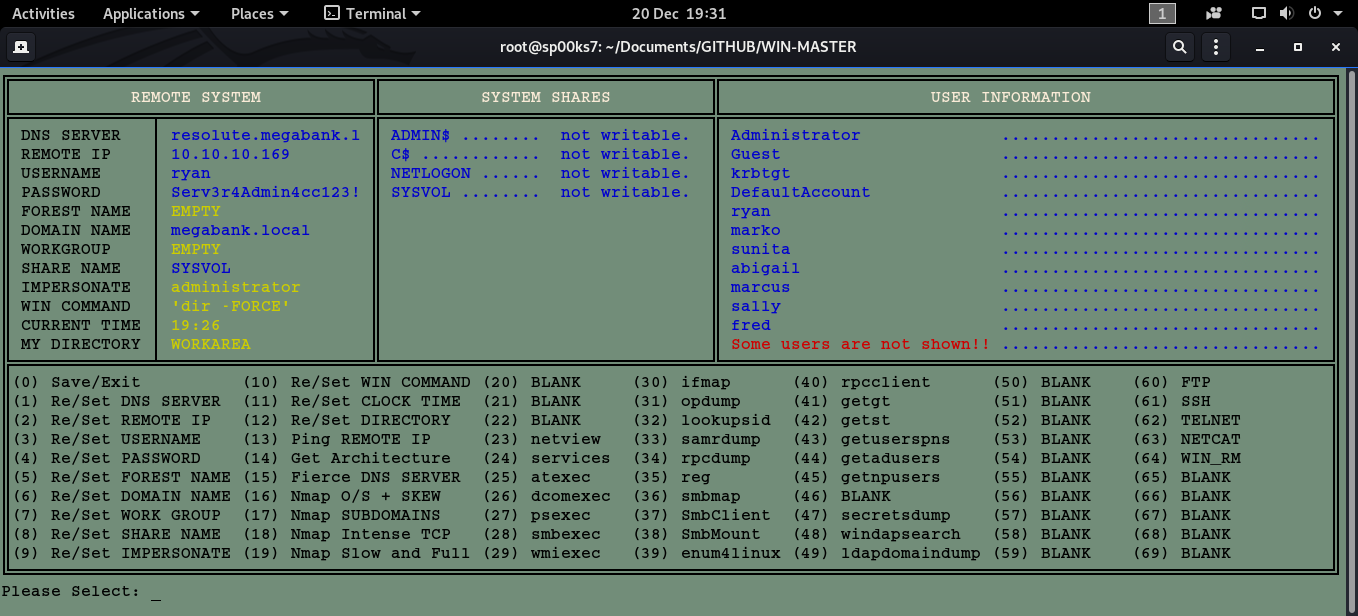
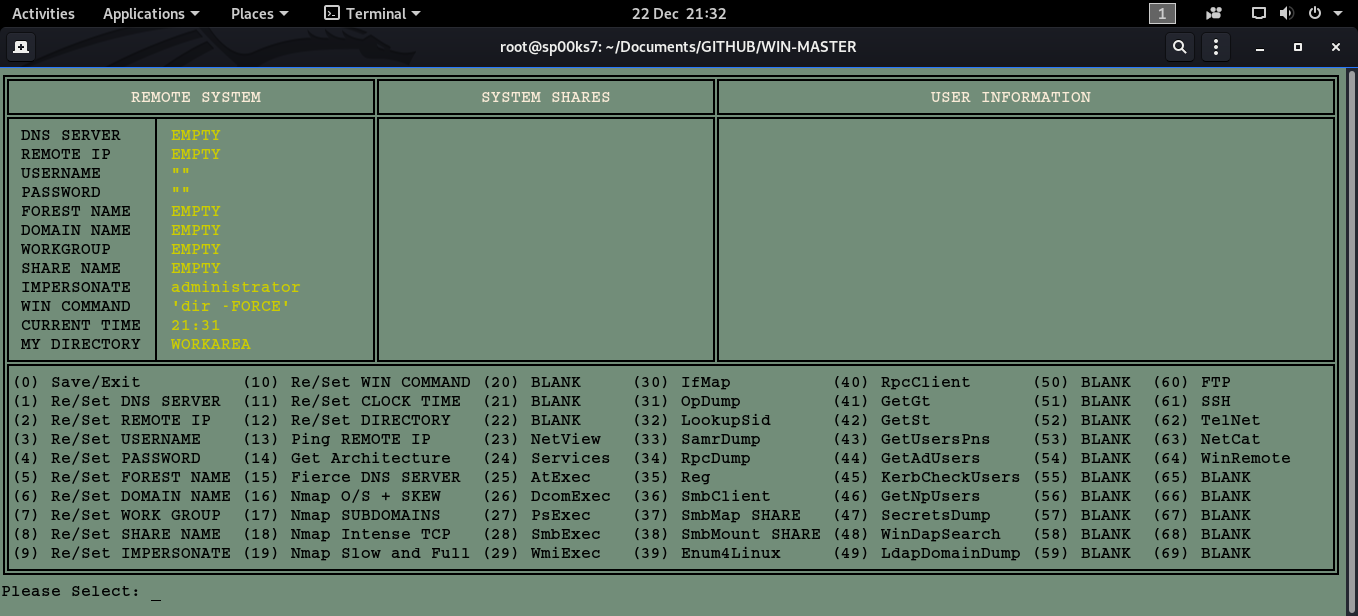
UPDATED

diff --git a/WinMaster.py b/WinMaster.py
@@ -79,10 +79,10 @@ def gettime(value):
    return variable
 
 def command(command):
-      print "Using Command: " + CMD #DEBUG 
-      os.system(command)
-      raw_input("\nPress ENTER to continue...")
-      return
+   print "Using Command: " + CMD #DEBUG 
+   os.system(command)
+   raw_input("\nPress ENTER to continue...")
+   return
 
 def display():
    print u'\u2554' + (u'\u2550')*36 + u'\u2566' + (u'\u2550')*33 + u'\u2566' + (u'\u2550')*61 + u'\u2557'
@@ -254,16 +254,16 @@ def display():
 
 # ----------------------------------------------------------------------------------------------------------------------------------------------------
 
-   print u'\u2551' + "(0) Save/Exit          (10) Re/Set WIN COMMAND (20) BLANK     (30) ifmap      (40) rpcclient      (50) BLANK    (60) FTP            " + u'\u2551'
-   print u'\u2551' + "(1) Re/Set DNS SERVER  (11) Re/Set CLOCK TIME  (21) BLANK     (31) opdump     (41) getgt          (51) BLANK    (61) SSH            " + u'\u2551'
-   print u'\u2551' + "(2) Re/Set REMOTE IP   (12) Re/Set DIRECTORY   (22) BLANK     (32) lookupsid  (42) getst          (52) BLANK    (62) TELNET         " + u'\u2551'
-   print u'\u2551' + "(3) Re/Set USERNAME    (13) Ping REMOTE IP     (23) netview   (33) samrdump   (43) getuserspns    (53) BLANK    (63) NETCAT         " + u'\u2551'
-   print u'\u2551' + "(4) Re/Set PASSWORD    (14) Get Architecture   (24) services  (34) rpcdump    (44) getadusers     (54) BLANK    (64) WIN_RM         " + u'\u2551'
-   print u'\u2551' + "(5) Re/Set FOREST NAME (15) Fierce DNS SERVER  (25) atexec    (35) reg        (45) getnpusers     (55) BLANK    (65) BLANK          " + u'\u2551'
-   print u'\u2551' + "(6) Re/Set DOMAIN NAME (16) Nmap O/S + SKEW    (26) dcomexec  (36) smbmap     (46) BLANK          (56) BLANK    (66) BLANK          " + u'\u2551'
-   print u'\u2551' + "(7) Re/Set WORK GROUP  (17) Nmap SUBDOMAINS    (27) psexec    (37) SmbClient  (47) secretsdump    (57) BLANK    (67) BLANK          " + u'\u2551'
-   print u'\u2551' + "(8) Re/Set SHARE NAME  (18) Nmap Intense TCP   (28) smbexec   (38) SmbMount   (48) windapsearch   (58) BLANK    (68) BLANK          " + u'\u2551'
-   print u'\u2551' + "(9) Re/Set IMPERSONATE (19) Nmap Slow and Full (29) wmiexec   (39) enum4linux (49) ldapdomaindump (59) BLANK    (69) BLANK          " + u'\u2551'
+   print u'\u2551' + "(0) Save/Exit          (10) Re/Set WIN COMMAND (20) BLANK     (30) IfMap          (40) RpcClient      (50) BLANK  (60) FTP          " + u'\u2551'
+   print u'\u2551' + "(1) Re/Set DNS SERVER  (11) Re/Set CLOCK TIME  (21) BLANK     (31) OpDump         (41) GetGt          (51) BLANK  (61) SSH          " + u'\u2551'
+   print u'\u2551' + "(2) Re/Set REMOTE IP   (12) Re/Set DIRECTORY   (22) BLANK     (32) LookupSid      (42) GetSt          (52) BLANK  (62) TelNet       " + u'\u2551'
+   print u'\u2551' + "(3) Re/Set USERNAME    (13) Ping REMOTE IP     (23) NetView   (33) SamrDump       (43) GetUsersPns    (53) BLANK  (63) NetCat       " + u'\u2551'
+   print u'\u2551' + "(4) Re/Set PASSWORD    (14) Get Architecture   (24) Services  (34) RpcDump        (44) GetAdUsers     (54) BLANK  (64) WinRemote    " + u'\u2551'
+   print u'\u2551' + "(5) Re/Set FOREST NAME (15) Fierce DNS SERVER  (25) AtExec    (35) Reg            (45) KerbCheckUsers (55) BLANK  (65) BLANK        " + u'\u2551'
+   print u'\u2551' + "(6) Re/Set DOMAIN NAME (16) Nmap O/S + SKEW    (26) DcomExec  (36) SmbClient      (46) GetNpUsers     (56) BLANK  (66) BLANK        " + u'\u2551'
+   print u'\u2551' + "(7) Re/Set WORK GROUP  (17) Nmap SUBDOMAINS    (27) PsExec    (37) SmbMap SHARE   (47) SecretsDump    (57) BLANK  (67) BLANK        " + u'\u2551'
+   print u'\u2551' + "(8) Re/Set SHARE NAME  (18) Nmap Intense TCP   (28) SmbExec   (38) SmbMount SHARE (48) WinDapSearch   (58) BLANK  (68) BLANK        " + u'\u2551'
+   print u'\u2551' + "(9) Re/Set IMPERSONATE (19) Nmap Slow and Full (29) WmiExec   (39) Enum4Linux     (49) LdapDomainDump (59) BLANK  (69) BLANK        " + u'\u2551'
    print u'\u255A' + (u'\u2550')*132 + u'\u255D'
 
 # -------------------------------------------------------------------------------------
@@ -987,8 +987,6 @@ while True:
 
       os.system("cat USERS.txt")
       os.system("sed -i -n '/Found user:/p' USERS.txt")
-      os.system("echo '' > users.txt")
-      os.system("sed -i 1d users.txt")
       
       for x in range (0,29):
          US[x] = linecache.getline('USERS.txt', x+1)
@@ -997,7 +995,8 @@ while True:
          US[x] = US[x][0]
          US[x] = padding(US[x], COL3)
          PA[x] = "................................"
-         os.system("echo " + US[x] + " >> users.txt")
+         if US[x] != ""*COL3:
+            os.system("echo " + US[x] + " >> users.txt")
       
       if US[12] != "":
          US[11] = "Some users are not shown!!..."
@@ -1033,24 +1032,24 @@ while True:
 # AUTHOR  : Terence Broadbent                                                    
 # CONTRACT: GitHub
 # Version : 1.0
-# Details : Menu option selected - smbmap -u -p -d -H
-# Modified: N/A
+# Details : Menu option selected - smbclient -L \\\\reblog.htb -U coby%championship2005
+# Modified: Note there are two versions of smbclient to consider.....
 # -------------------------------------------------------------------------------------
 
-   if selection == '36':
-      CMD = "smbmap -u " + USR.rstrip(" ") + " -p " + PAS.rstrip(" ") + " -d " + HST.rstrip(" ") + " -H " + TIP.rstrip(" ")
+   if selection =='36':
+      CMD = "smbclient -L \\\\\\\\" + TIP.rstrip(" ") + " -U " + USR.rstrip(" ") + "%" + PAS.rstrip(" ")
       command(CMD)
 
 # ------------------------------------------------------------------------------------- 
 # AUTHOR  : Terence Broadbent                                                    
 # CONTRACT: GitHub
 # Version : 1.0
-# Details : Menu option selected - smbclient -L \\\\reblog.htb -U coby%championship2005
-# Modified: Note there are two versions of smbclient to consider.....
+# Details : Menu option selected - smbmap -u -p -d -H
+# Modified: N/A
 # -------------------------------------------------------------------------------------
 
-   if selection =='37':
-      CMD = "smbclient -L \\\\\\\\" + TIP.rstrip(" ") + " -U " + USR.rstrip(" ") + "%" + PAS.rstrip(" ")
+   if selection == '37':
+      CMD = "smbmap -u " + USR.rstrip(" ") + " -p " + PAS.rstrip(" ") + " -d " + HST.rstrip(" ") + " -H " + TIP.rstrip(" ") + " -R " + HIP.rstrip(" ")
       command(CMD)
 
 # ------------------------------------------------------------------------------------- 
@@ -1141,11 +1140,43 @@ while True:
 # AUTHOR  : Terence Broadbent                                                    
 # CONTRACT: GitHub
 # Version : 1.0
+# Details : Menu option selected - Kerberus Filter Users.txt
+# Modified: N/A
+# -------------------------------------------------------------------------------------
+
+   if selection =='45':
+      CMD = "nmap -p 88 --script=krb5-enum-users --script-args krb5-enum-users.realm=" + HST.rstrip(" ") + ",userdb=users.txt " + TIP.rstrip(" ") + " >> KUSERS.txt"
+      os.system(CMD)
+      os.system("cat KUSERS.txt")
+      
+      os.system("sed -i '/@/!d' KUSERS.txt")
+      os.remove("users.txt")
+      	
+      for x in range (0,29):
+         US[x] = linecache.getline('KUSERS.txt', x+1)
+         US[x] = US[x].replace("|     ", "")
+         US[x] = US[x].split("@")
+         US[x] = US[x][0]
+         US[x] = padding(US[x], COL3)
+         PA[x] = "................................"
+         if US[x] != ""*COL3:
+            os.system("echo " + US[x] + " >> users.txt")
+      
+      if US[12] != "":
+         US[11] = "Some users are not shown!!..."
+         US[11] = padding(US[11], COL3)
+      
+      raw_input("\nPress ENTER to continue...") 
+
+# ------------------------------------------------------------------------------------- 
+# AUTHOR  : Terence Broadbent                                                    
+# CONTRACT: GitHub
+# Version : 1.0
 # Details : Menu option selected - GetNPUsers.py HTB.local/ -usersfile users.txt -format hashcat -outputfile hashes.roast 
 # Modified: N/A                    megabank/-no-pass -usersfile USERS.txt
 # -------------------------------------------------------------------------------------
 
-   if selection =='45':
+   if selection =='46':
       test = linecache.getline('users.txt', 1)
       if test != "":
          CMD = PRO + "GetNPUsers.py -outputfile hashroast.txt -format hashcat " + HST.rstrip(" ") + "/ -usersfile users.txt"
@@ -1158,17 +1189,6 @@ while True:
       else:
          print "USERS.txt file is empty? try running option 23 first..."
          raw_input("\nPress ENTER to continue...")  
-
-# ------------------------------------------------------------------------------------- 
-# AUTHOR  : Terence Broadbent                                                    
-# CONTRACT: GitHub
-# Version : 1.0
-# Details : Menu option selected - 
-# Modified: N/A
-# -------------------------------------------------------------------------------------
-
-   if selection =='46':
-      exit(1)    
 
 # ------------------------------------------------------------------------------------- 
 # AUTHOR  : Terence Broadbent                                                    
@@ -1207,7 +1227,7 @@ while True:
       os.system(CMD)
       print "[+] Directory contents"
       os.system("ls -la ./" + DIR.rstrip(" "))
-      raw_input("\nPress ENTER to continue...")   
+      raw_input("\nPress ENTER to continue...")  
 
 # ------------------------------------------------------------------------------------- 
 # AUTHOR  : Terence Broadbent                                                    
